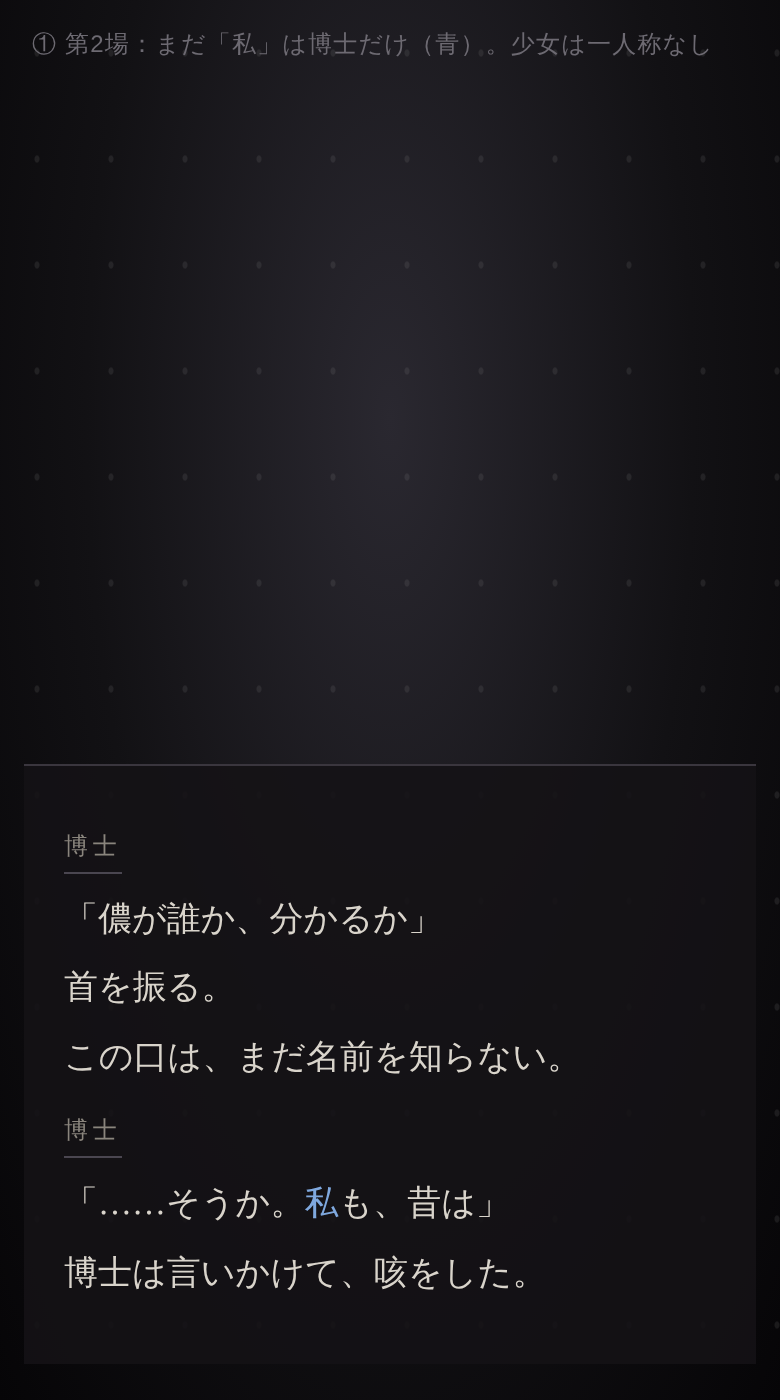
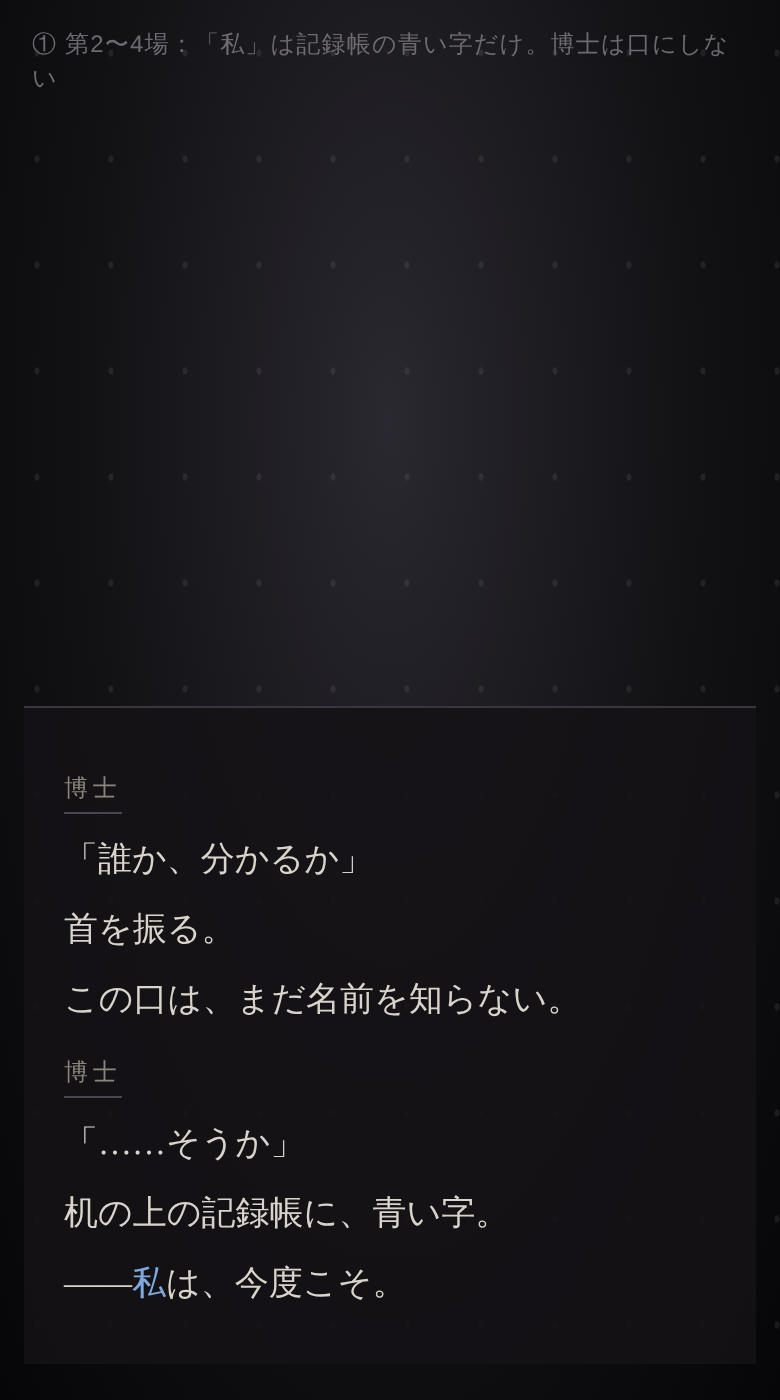
DIRT AND SMOKE: 博士を描かない方針を反映（性別・年齢の描写を除き、一人称の仕掛けを組み直した）
Claude-Session: https://claude.ai/code/session_017DFZ5cAFpFRu7s8XgCuu81

diff --git a/dirt-and-smoke/mock/text_color_mock.html b/dirt-and-smoke/mock/text_color_mock.html
@@ -17,8 +17,8 @@ body{background:#000;font-family:"Noto Serif CJK JP","Noto Serif JP",serif;}
 .c{display:flex;align-items:center;justify-content:center;height:100%;color:var(--ink);font-size:20px;letter-spacing:.15em}
 .moon{position:absolute;top:90px;right:60px;width:70px;height:70px;border-radius:50%;background:#8e1f26;box-shadow:0 0 40px #8e1f2688}
 </style></head><body>
-<div class="f" id="f1"><div class="ash"></div><div class="cap">① 第2場：まだ「私」は博士だけ（青）。少女は一人称なし</div>
-<div class="box"><span class="n">博士</span><br>「儂が誰か、分かるか」<br>首を振る。<br>この口は、まだ名前を知らない。<br><span class="n">博士</span><br>「……そうか。<span class="b">私</span>も、昔は」<br>博士は言いかけて、咳をした。</div></div>
+<div class="f" id="f1"><div class="ash"></div><div class="cap">① 第2〜4場：「私」は記録帳の青い字だけ。博士は口にしない</div>
+<div class="box"><span class="n">博士</span><br>「誰か、分かるか」<br>首を振る。<br>この口は、まだ名前を知らない。<br><span class="n">博士</span><br>「……そうか」<br>机の上の記録帳に、青い字。<br>――<span class="b">私</span>は、今度こそ。</div></div>
 
 <div class="f" id="f2"><div class="ash"></div><div class="cap">② 第5場：記録帳の字を写し、少女の「私」が赤くなる</div>
 <div class="box">記録帳の文字を、指でなぞる。<br>――<span class="b">私</span>は、今度こそ。<br>同じ形を、紙の端に書いてみる。<br><span class="r">私</span>。<br>声に出す。<br>「<span class="r">私</span>は、ここにいる」</div></div>

diff --git a/dirt-and-smoke/01_構成案.md b/dirt-and-smoke/01_構成案.md
@@ -13,7 +13,7 @@
 
 | # | 論点 | 推奨 | 他の選択肢 |
 |---|---|---|---|
-| A | 少女の「ひとつだけの人間らしい行為」 | **眠れない博士に子守唄を歌い、眠らせる**（彼は二度と起きない） | 鏡を割る／自分に名前をつける／嘘をひとつつく |
+| A | 少女の「ひとつだけの人間らしい行為」 | **眠れない博士に子守唄を歌い、眠らせる**（博士は二度と起きない） | 鏡を割る／自分に名前をつける／嘘をひとつつく |
 | B | 子守唄のメロディ | **「Dirt and Smoke」の歌メロをハミング／オルゴールで使う** | 別の短いオリジナル旋律 |
 | C | 選択肢 | **「眠る／眠らない」を2回。どちらを選んでも身体が眠ってしまう**。最後の行為には選択肢を出さない | 完全一本道／台詞が少し変わる小分岐 |
 | D | 最後の黒画面 | **数秒間の完全な黒画面＝スマホの画面にプレイヤー自身の顔が映る** | 通常のフェードアウト |
@@ -25,7 +25,7 @@
 
 **「借り物の身体で、たったひとつだけ、自分のものにしたかった。」**
 
-そのひとつが何だったのか──歌か、博士か、彼の眠りか、それとも罪か──は最後まで言わない。
+そのひとつが何だったのか──歌か、博士か、博士の眠りか、それとも罪か──は最後まで言わない。
 
 ---
 
@@ -45,13 +45,14 @@
 
 ### 矛盾と弱さ【提案】
 - 眠るのが怖い（Somnus Phobia）のに、身体は眠りたがる。
-- 博士が怖い。でも彼の咳が止まると不安になる。
+- 博士が怖い。でも博士の咳が止まると不安になる。
 - 他人の記憶を嫌っているのに、子守唄だけは手放したくない。それが一番「他人のもの」なのに。
 - **自分の感情を証明できない。** 悲しいのか、悲しかった誰かを思い出しているだけなのか、区別がつかない。
 
 ### 博士【提案】
-- 老人。煤の街で肺を病み、いつも咳をしている（Dirt and Smoke を身体に溜めている人）。
-- **眠らない。** 夜通し椅子に座っている。彼もまた Somnus Phobia ──夢に死者が来るから、と一度だけ漏らす。
+- **顔・全身・年齢・性別を描かない。**（総監督決定。第10章）
+- 煤の街で肺を病み、いつも咳をしている（Dirt and Smoke を身体に溜めている人）。
+- **眠らない。** 夜通し椅子に座っている。博士もまた Somnus Phobia ──夢に死者が来るから、と一度だけ漏らす。
 - 屋敷の鏡はすべて黒い布で覆われている。**ヴィクトリア朝の「家で人が死ぬと鏡を覆う」喪の習慣**。誰が死んだのかは語られない。布のない鏡が一枚だけ、少女の部屋にある。
 - 優しい。けれど、優しさが彼女に向いているのか、彼女の中の誰かに向いているのか分からない。
 - 悪人とも善人とも確定させない。
@@ -69,7 +70,7 @@
 | 2 | 博士 | 2:30 | 博士が来て、彼女を知らない名で呼ぶ。スープ。言葉を教える。「眠りなさい」 |
 | 3 | 一夜目 | 2:00 | 【選択：眠る／眠らない】→ 夢：台所で子守唄を歌う女。目覚めると彼女がそれをハミングしている。博士の手が止まる |
 | 4 | 記録 | 3:00 | 博士の外出中、記録を読む。部位ごとの死者の名。日付ごとに違う彼女の名。「七体目。今度こそ。」「彼女は歌わない。歌うはずがない。」心臓の欄だけ空白 |
-| 5 | 二夜目 | 2:00 | 【選択：眠る／眠らない】→ 汚れた夢：煙の向こうで咳をする男に押さえつけられる。誰の記憶か不明。目覚めると縫い目が一本増えている |
+| 5 | 二夜目 | 2:00 | 【選択：眠る／眠らない】→ 汚れた夢：煙の向こうで咳をする誰かに押さえつけられる。誰の記憶か不明。目覚めると縫い目が一本増えている |
 | 6 | 問い | 2:00 | 「私は誰？」博士は名を言いかけてやめる。「明日、少し直そう」 |
 | 7 | 子守唄 | 2:30 | 夜。眠れない博士の傍らで、少女が歌う。博士は眠る。蝋燭が消える |
 | 8 | 鏡 | 1:30 | 朝。博士は起きない。少女は鏡の布をすべて外す。「あなたは、誰？」鏡の少女は**少し遅れて**微笑む。外へ |
@@ -80,13 +81,13 @@
 2. **冒頭と結末の一文が輪になる。** 第0場「灰と煙の中で、私は目を覚ました。」→ 第9場で同じ文に「それが、二度目だったのかどうかは知らない。」が続く。記録の「七体目」と響き合う。
 3. **選択が身体に無視される。** プレイヤーが「眠らない」を選んでも「眠らない、と決めた。／身体は、私の言うことを聞かなかった。」で眠ってしまう。身体が彼女のものではないことを、プレイヤーの指で体験させる。
    そして第7場の行為には**選択肢を出さない**。最後の行為だけは、プレイヤーにも選ばせない。それが彼女の意志だから。
-4. **Somnus Phobia を二人が共有する。** 眠るのが怖い少女が、眠るのが怖い老人を眠らせる。それが救いか、殺しか、復讐か、自分を「直されない」ための防衛かは確定しない。
+4. **Somnus Phobia を二人が共有する。** 眠るのが怖い少女が、眠るのが怖い博士を眠らせる。それが救いか、殺しか、復讐か、自分を「直されない」ための防衛かは確定しない。
 
 ### 第7場の曖昧さを支える材料（どれも確定させない）
-- 愛：彼女は彼の手を握り、子守唄を歌う。
-- 憎しみ：第5場の夢──咳をする男に押さえつけられた記憶。
+- 愛：彼女は博士の手を握り、子守唄を歌う。
+- 憎しみ：第5場の夢──咳をする誰かに押さえつけられた記憶。
 - 自己防衛：「明日、少し直そう」「七体目。今度こそ。」
-- 何もしていない可能性：彼は病人で、ただ寿命だったのかもしれない。
+- 何もしていない可能性：博士は病人で、ただ寿命だったのかもしれない。
 
 ---
 
@@ -169,8 +170,8 @@
 「誰が？」
 「……みんな」
 
-私は、彼の手を取った。
-冷たかった。私の手より。
+私は、博士の手を取った。
+手袋ごしでも、冷たかった。私の手より。
 
 「わたしを、恨んでいるか」
 
@@ -229,16 +230,16 @@
 |---|---|---|---|
 | 0 | 黒 | — | 灰の粒子がゆっくり落ちる |
 | 1 | 実験室（実験台・蝋燭・布のない鏡） | 無表情／戸惑い | 鏡像差分：**先に微笑む**鏡の少女 |
-| 2 | 実験室・夕 | 無表情／小さな興味 | 博士立ち絵（咳・横顔）。布で覆われた鏡が背後に並ぶ |
+| 2 | 実験室・夕 | 無表情／小さな興味 | 博士は描かない：スープを置く手袋の手元、壁の影、咳の音。布で覆われた鏡が背後に並ぶ |
 | 3 | 寝台・夜 → 夢の台所（セピア、輪郭が溶ける） | 閉眼／口元だけ歌う | 夢はぼかし＋粒子。匙が落ちる音 |
 | 4 | 書斎（記録帳・机） | 読む横顔／指先のアップ | 記録帳の頁を画面いっぱいに。手書き文字 |
-| 5 | 寝台・夜 → 汚れた夢（煙・逆光の男・赤） | 苦悶／目覚めの凍った顔 | **ここで初めて赤**を少量。縫い目アップ（23→24） |
-| 6 | 実験室・昼 | まっすぐ見る | 博士が目を逸らすカット |
+| 5 | 寝台・夜 → 汚れた夢（煙・逆光の誰か・赤） | 苦悶／目覚めの凍った顔 | **ここで初めて赤**を少量。縫い目アップ（23→24） |
+| 6 | 実験室・昼 | まっすぐ見る | 博士は描かない：答えかけて止まる声、椅子が軋む音、遠ざかる足音 |
 | 7 | 博士の椅子・夜・蝋燭一本 | 歌う横顔（穏やか／読めない） | 手を握るアップ。鏡の一瞬差分。蝋燭消灯 |
 | 8 | 廊下（覆われた鏡の列）→ 鏡 → 屋敷の扉 | かすかな微笑 | 鏡像差分：**遅れて微笑む**。扉の外に赤い月（朝の空に沈みかけ） |
 | 9 | 黒 → 煤の街 → 黒 | 後ろ姿のみ | 楽曲と同期したスチル数枚 |
 
-必要立ち絵（最小）：**少女 5表情（無／戸惑い／興味／歌う／微笑）＋寝顔、博士 2表情（咳／目を逸らす）**。
+必要立ち絵（最小）：**少女 5表情（無／戸惑い／興味／歌う／微笑）＋寝顔**。博士の立ち絵・表情差分は**なし**（第10章）。
 一枚絵（最小）：鏡（先に笑う）、記録帳、子守唄の手、鏡（遅れて笑う）、灰の街の後ろ姿。
 
 赤の使用は **第5場の夢・第8場の月・第9場** の3か所のみを提案。
@@ -283,7 +284,7 @@
 ### 【提案】（承認待ち）
 - 感情の核「借り物の身体で、たったひとつだけ、自分のものにしたかった。」
 - 少女は無名／記録ごとに別の名、数える癖
-- 博士は肺を病み、眠らない老人。鏡は喪の習慣で覆われている
+- 博士は肺を病み、眠らない。姿は描かない。鏡は喪の習慣で覆われている
 - 全9場・約17分・6,000〜7,000字
 - 鏡の「先→後」反転、冒頭と結末の一文の輪
 - 「眠る／眠らない」が身体に無視される選択
@@ -317,9 +318,9 @@
 ### 一人称の段階
 | 場面 | 少女 | 博士 |
 |---|---|---|
-| 1〜2 | 一人称なし（「この手」「この身体」） | 「儂（わし）」 |
-| 3〜4 | 「わたし」──夢の中の女の口癖を覚える | 「儂」。記録帳の中だけ「私」 |
-| 5〜6 | 「私」──博士の記録帳の字を写して覚える | 「儂」。一度だけ「私」と言いかけ、言い直す |
+| 1〜2 | 一人称なし（「この手」「この身体」） | 一人称を口にしない（主語を省いて話す） |
+| 3〜4 | 「わたし」──夢の中の女の口癖を覚える | 口にしない。記録帳の中だけ「私」（青） |
+| 5〜6 | 「私」──博士の記録帳の字を写して覚える | 口にしない。一度だけ「わ……」と言いかけて、やめる |
 | 7〜 | 「私」 | 「私」 |
 
 少女の「私」は博士の筆跡を写したもの。自分という言葉さえ借り物。
@@ -342,7 +343,7 @@
 「誰が？」
 「……みんな」
 
-「儂を、恨んでいるか」
+「恨んでいるか」
 
 答えのかわりに、わたしは歌った。　　　← 「わたし」はひらがな・色なし
 台所の女の歌。
@@ -350,11 +351,11 @@
 
 （ここから名前表示が消える。「私」はすべて白）
 
-「私は、眠るのが怖い」
+「私は、眠るのが怖い」　　　　　　← 博士が「私」と声に出すのは、ここが初めて（かもしれない）
 「私も」
 
 手を握った。
-冷たかった。どちらの手が。
+手袋ごしでも、冷たかった。どちらの手が。
 
 私は歌った。
 私は眠った。
@@ -378,3 +379,29 @@
 扉を開ける。
 灰が降っていた。
 ```
+
+---
+
+## 10. 博士の描き方【確定：総監督決定】
+
+博士は最後まで、正体も感情も分からない「他人」として置く。
+**顔・全身・年齢・性別を描かない。** 立ち絵・表情差分は作らない。
+
+### 博士を伝える断片
+| 断片 | 使う場面 |
+|---|---|
+| **声**（台詞の文字だけ。ボイスなし） | 全編。主語を省き、一人称を口にしない |
+| **咳** | 全編。博士がそこにいることの合図。第7場で止まる |
+| **足音** | 第2場で近づく、第6場で遠ざかる。第8場の朝は鳴らない |
+| **手元**（煤とインクで汚れた手袋） | 第2場（スープを置く）、第3場（匙が落ちる）、第7場（手を握る） |
+| **椅子の影** | 第7場。壁に映る、椅子に座った影 |
+| **筆跡**（青いインク） | 第4場の記録帳。博士の「私」はここで初めて出る |
+
+### 脚本で決めたこと
+- **博士はいつも手袋をしている。** 少女は最後まで博士の素肌に触れない。手からも年齢や性別が分からない。
+- **地の文では「彼」「彼女」を使わず、「博士」とだけ書く。**
+- **一人称：** 博士は声に出して「私」と言わない。最初の「私」は記録帳の青いインクの文字。声に出すのは第7場、色と名前表示が消えた後だけ。そこで話しているのが博士なのか少女なのか、プレイヤーには分からない。
+- 夢の中で少女を押さえつける人物も「誰か」とする。博士かどうかは確定させない。
+
+### 必要な効果音（新規）
+咳（数種）、足音（近づく／遠ざかる）、椅子の軋み、ペンが紙を擦る音、匙が落ちる音、蝋燭が消える音

diff --git a/dirt-and-smoke/03_ビジュアル担当への共有.md b/dirt-and-smoke/03_ビジュアル担当への共有.md
@@ -15,10 +15,10 @@
 ## 2. 物語の流れ（全9場・約17分）
 0. 灰：黒い画面にひとこと「灰と煙の中で、私は目を覚ました。」
 1. 目覚め：実験台の上の少女が、指と縫い目を数える。鏡の中の少女が、**彼女より先に**微笑む
-2. 博士：肺を病んだ老人。屋敷の鏡はすべて黒い布で覆われている（家で人が死ぬと鏡を覆う、ヴィクトリア朝の喪の習慣）
+2. 博士：姿は描かない（声・咳・足音・手元・影・筆跡だけ）。屋敷の鏡はすべて黒い布で覆われている（家で人が死ぬと鏡を覆う、ヴィクトリア朝の喪の習慣）
 3. 一夜目：夢の中で、台所の女が子守唄を歌う。目覚めると少女がそれを口ずさんでいる
 4. 記録：博士の記録帳。部位ごとの死者の名。心臓の欄だけが空白
-5. 二夜目：汚れた夢。煙の中で、咳をする男に押さえつけられる。目覚めると縫い目が一本増えている
+5. 二夜目：汚れた夢。煙の中で、咳をする誰かに押さえつけられる。目覚めると縫い目が一本増えている
 6. 問い：「私は誰？」博士は答えかけて、やめる
 7. 子守唄：眠れない博士のそばで少女が歌う。蝋燭が消える
 8. 鏡：朝。鏡の布をすべて外す。「あなたは、誰？」鏡の少女は**少し遅れて**微笑む。灰の降る外へ
@@ -32,7 +32,7 @@
 - 同じ構図・同じ鏡で、2枚を対にしたいです。「何かが入れ替わった」と、説明なしで感じさせたい
 
 ## 4. 文字色の仕掛け（総監督の発案・確定）
-博士と少女は、最初は一人称が違います（博士は「儂」、少女は一人称なし）。物語が進むにつれて、どちらも「私」になります。
+博士と少女は、最初は一人称が違います（博士は一人称を口にせず、記録帳の中でだけ「私」と書く。少女は一人称なし）。物語が進むにつれて、どちらも「私」になります。
 **「私」という一文字だけに色をつけます。**
 
 | 段階 | 「私」の色 | 意味 |
@@ -57,10 +57,10 @@
 
 ## 6. 必要な絵（最小限）
 - **少女の立ち絵**：表情は無表情／戸惑い／小さな興味／歌う／微笑の5つと、寝顔
-- **博士の立ち絵**：咳き込む／目を逸らすの2つ
+- **博士**：立ち絵・表情差分は作らない。手袋の手元（煤とインクの汚れ）、壁に映る椅子の影だけ
 - **背景**：実験室、寝台（夜）、書斎、博士の椅子と蝋燭一本、覆われた鏡が並ぶ廊下、屋敷の扉、灰の降る街
 - **一枚絵**：先に笑う鏡、記録帳の頁（手書き）、手を握るアップ、遅れて笑う鏡、灰の街を行く後ろ姿
-- **夢**：台所（セピア・輪郭が溶ける）、煙と逆光の男（赤を少し）
+- **夢**：台所（セピア・輪郭が溶ける）、煙と逆光の誰か（性別が分からないように。赤を少し）
 
 ## 7. エンディング映像（主題歌に合わせて／秒数は推定）
 | 曲の部分 | 映像 |
@@ -77,6 +77,6 @@
 
 ## 8. ビジュアル担当に決めてほしいこと
 1. 文字色4色（青・赤・白・紫）と、通常文字・背景の色
-2. 少女と博士のデザインの方向性
+2. 少女のデザインの方向性（博士は描かない）
 3. 「先に笑う鏡」と「遅れて笑う鏡」の構図
 4. スマホ画面での文字ウィンドウのデザイン（モック画像はあくまで仮です）

diff --git a/dirt-and-smoke/04_ビジュアル修正依頼_v1.md b/dirt-and-smoke/04_ビジュアル修正依頼_v1.md
@@ -34,11 +34,18 @@
 　本編にも出したい場合は教えてください。脚本側で組み込み方を考えます。
 
 ■ 追加でほしい素材
-・博士のデザイン：肺を病んだ老人。煤で汚れた白衣かフロックコート。いつも咳をしている。夜も眠らず椅子に座っている
-　表情は「咳き込む」「目を逸らす」の2つ
+・（取り消し）博士のデザイン → 総監督の決定により制作しない。下の「追記」を参照
 ・少女の表情差分：無表情／戸惑い／小さな興味／歌う（目を閉じて口元だけ）／わずかな微笑／寝顔
 ・黒い布で覆われた鏡が並ぶ廊下（ヴィクトリア朝の、家で人が死んだときに鏡を覆う喪の習慣）
 
 ■ 細かいところ
 ・テキストウィンドウの名前表示：序盤は「博士」だけに名前を出し、少女には名前を出さない予定です（少女には名前がないため）。
 ・終盤、名前表示はすべて消えます。名前欄がなくても成立するデザインにしてください。
+
+■ 追記（総監督の決定）：博士は描かない
+・博士の顔・全身・年齢・性別は描きません。立ち絵・表情差分も作りません。
+・必要なのは断片だけです：
+　- 手袋をした手元（煤とインクで汚れている。手から年齢・性別が分からないように）
+　- 壁に映る、椅子に座った影
+　- 記録帳の筆跡（青いインク）
+・第5場の夢に出てくる「少女を押さえつける誰か」も、性別が分からないように描いてください。
